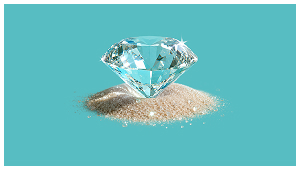
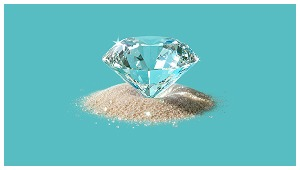
fix: bake horizontal flip into hero 01/05 swipe thumbs
Remove CSS scaleX flip (looked like motion / fought hover scale) and
mirror hero-01-next / hero-05-next image pixels so orientation is correct
as static assets.

Changed region(s): [[0.24, 0.2059, 0.75, 0.7647]]

diff --git a/src/components/Hero.css b/src/components/Hero.css
@@ -442,20 +442,10 @@
   will-change: transform;
 }
 
-/* Slide 01 / 05 — flip swipe (next) thumbnail */
-.hero__swipe-thumb img.is-flip-x {
-  transform: scaleX(-1);
-}
-
 /* ONLY thumbnail image effect on hover — never the full hero background */
 .hero__swipe-preview:hover .hero__swipe-thumb img,
 .hero__swipe-preview:focus-visible .hero__swipe-thumb img {
   transform: scale(1.06);
-}
-
-.hero__swipe-preview:hover .hero__swipe-thumb img.is-flip-x,
-.hero__swipe-preview:focus-visible .hero__swipe-thumb img.is-flip-x {
-  transform: scaleX(-1) scale(1.06);
 }
 
 .hero__swipe-meta {
@@ -638,10 +628,6 @@
   /* Keep birds / cubes mirror on the wrapper even when Ken Burns is disabled */
   .hero__bg-slide--birds .hero__visual-media,
   .hero__bg-slide--cubes .hero__visual-media {
-    transform: scaleX(-1);
-  }
-
-  .hero__swipe-thumb img.is-flip-x {
     transform: scaleX(-1);
   }
 

diff --git a/src/components/Hero.tsx b/src/components/Hero.tsx
@@ -178,12 +178,7 @@ export function Hero() {
             aria-label={`다음 화면 ${nextSlide.index} ${slide.nextLabel}로 이동`}
           >
             <div className="hero__swipe-thumb">
-              <img
-                src={slide.nextImage}
-                alt=""
-                decoding="async"
-                className={slide.flipSwipe ? 'is-flip-x' : undefined}
-              />
+              <img src={slide.nextImage} alt="" decoding="async" />
             </div>
             <div className="hero__swipe-meta">
               <span>{nextSlide.index}</span>

diff --git a/src/data/slides.ts b/src/data/slides.ts
@@ -22,8 +22,6 @@ export type HeroSlide = {
   /** Optional edge fade for jewel-style assets */
   fadeEdges?: boolean
   wordSize?: 'lg' | 'md'
-  /** Horizontally flip the swipe thumbnail (next preview) */
-  flipSwipe?: boolean
 }
 
 /** Auto-advance + swipe_gage fill duration. Button jumps must reset immediately. */
@@ -44,7 +42,6 @@ export const heroSlides: HeroSlide[] = [
     nextImage: asset('assets/hero-01-next.jpg'),
     visual: 'statue',
     wordSize: 'lg',
-    flipSwipe: true,
   },
   {
     id: 2,
@@ -108,6 +105,5 @@ export const heroSlides: HeroSlide[] = [
     nextImage: asset('assets/hero-05-next.jpg'),
     visual: 'campus',
     wordSize: 'lg',
-    flipSwipe: true,
   },
 ]